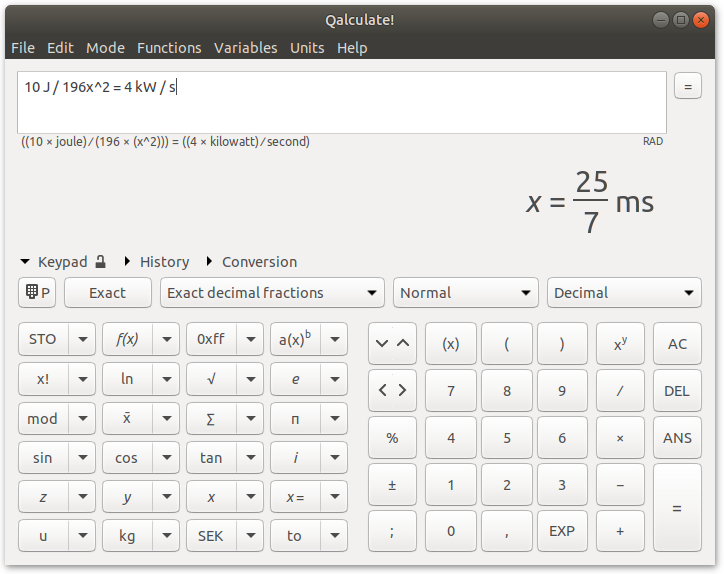
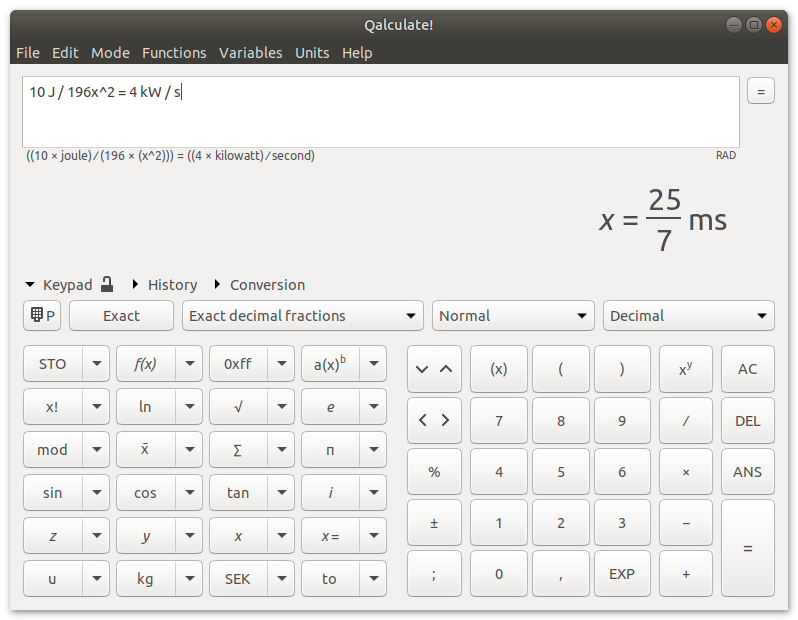
Minor screenshots update

diff --git a/index.html b/index.html
@@ -35,7 +35,7 @@ Sections:<br>
                             - the ultimate desktop calculator
                         </h2>
 </div>
-<div align="center"><IMG src="images/qalculate-keypad.png" width="550" border="0"></div>
+<div align="center"><IMG src="images/qalculate-window.png" width="550" border="0"></div>
 <br><big>Qalculate! is a multi-purpose cross-platform desktop calculator. It is simple to use but provides power and versatility normally reserved for complicated math packages, as well as useful tools for everyday needs (such as currency conversion and percent calculation). Features include a large library of customizable functions, unit calculations and conversion, physical constants, symbolic calculations (including integrals and equations), arbitrary precision, uncertainty propagation, interval arithmetic, plotting, and a user-friendly interface (GTK+ and CLI).</big>
   <br><br>
   <big>Qalculate! is free software, licensed under the <a href="https://www.gnu.org/licenses/old-licenses/gpl-2.0.html">GNU Public License v2</a> (or later).</big>

diff --git a/screenshots.html b/screenshots.html
@@ -33,11 +33,11 @@ Sections:<br>
 <h1><font color="#cc4499"><strong>Q</strong></font>alculate! screenshots</h1>
 <hr></div><br>
 <div align="left">
-	<a href="images/qalculate-main-window.png"><IMG src="images/qalculate-main-window.png" width="484" height="207" border="0"></a>
+	<a href="images/qalculate-main-window.png"><IMG src="images/qalculate-main-window.png" width="489" height="212" border="0"></a>
 	<br><br>
 	<a href="images/qalculate-history.png"><IMG src="images/qalculate-history.png" width="550" height="506" border="0"></a>
 	<br><br>
-	<a href="images/qalculate-keypad.png"><IMG src="images/qalculate-keypad.png" width="543" height="448" border="0"></a>
+	<a href="images/qalculate-keypad.png"><IMG src="images/qalculate-keypad.png" width="532" height="413" border="0"></a>
 	<br><br>
 	<a href="images/qalculate-conversion.png"><IMG src="images/qalculate-conversion.png" width="525" height="488" border="0"></a>
 	<br><br>
